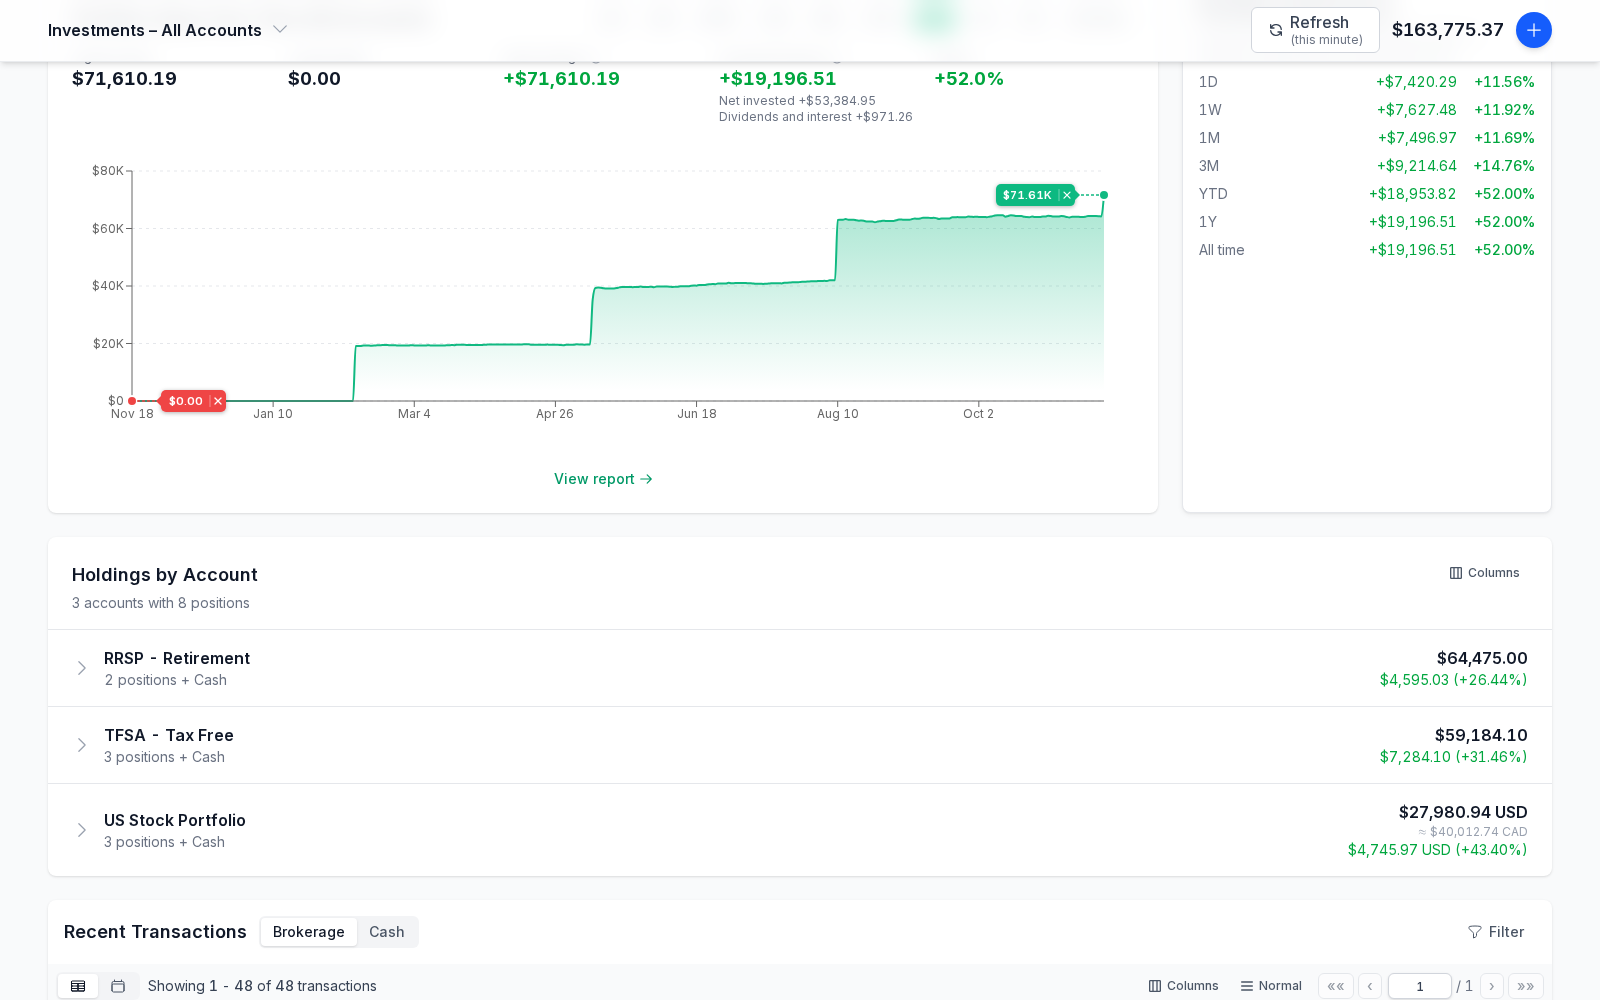
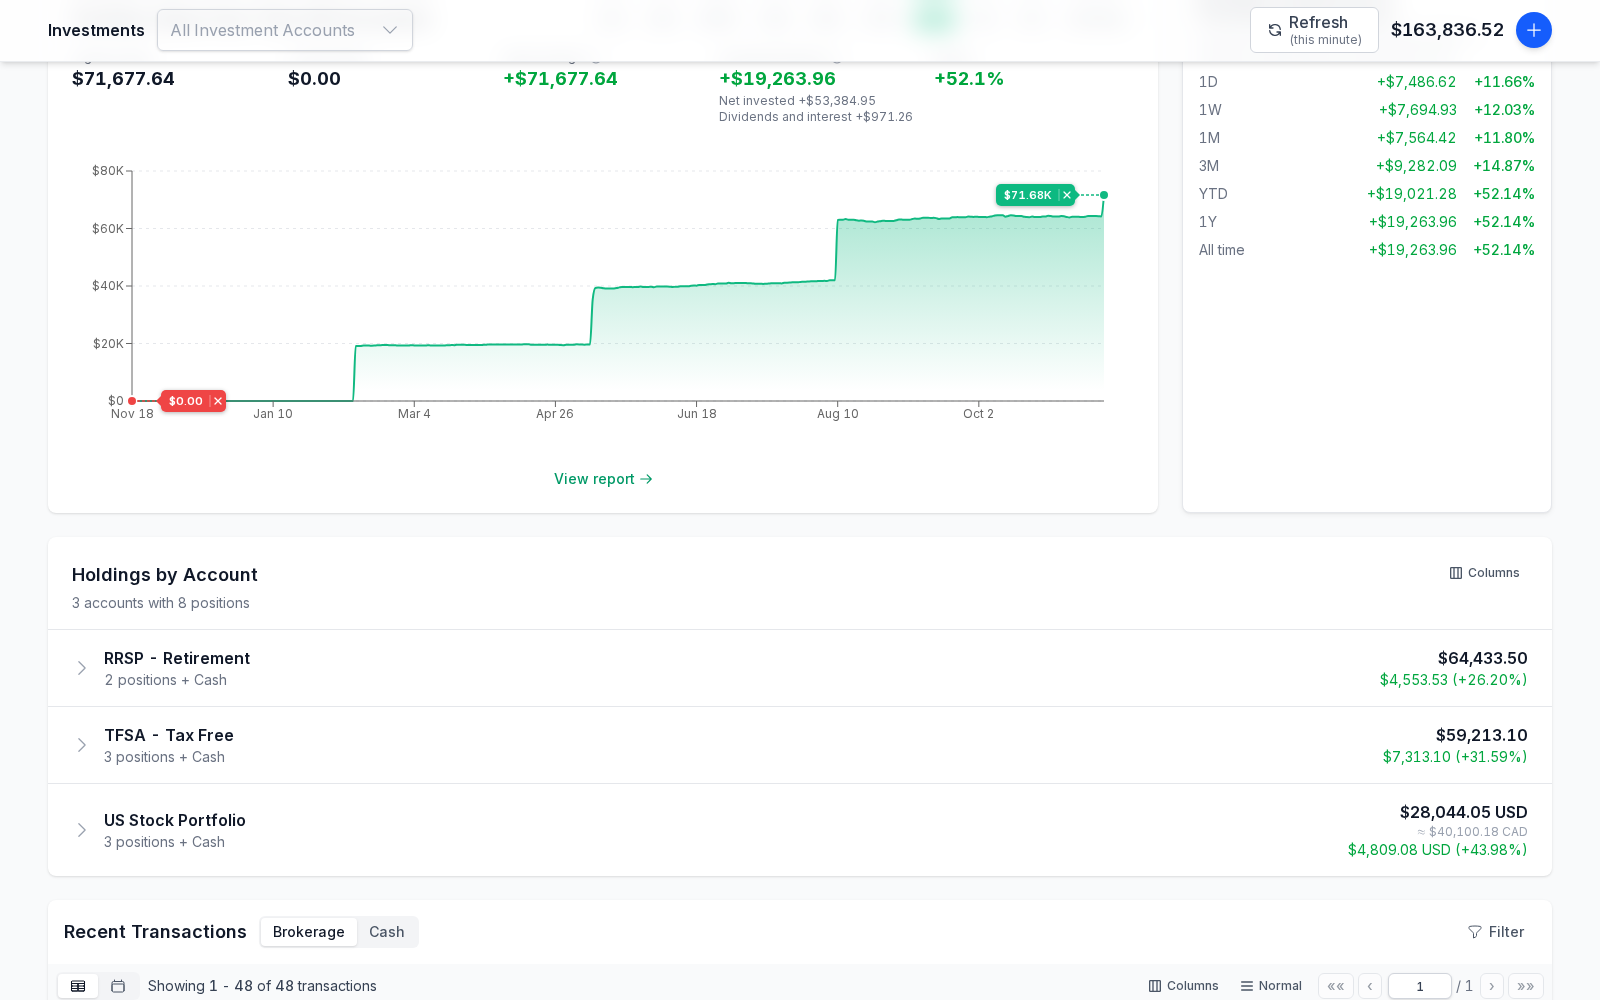
feat(investments): pick one or more accounts from the pinned bar
The desktop's pinned Investments bar carried a single-pick caret (one
account, or all of them), while every other account picker on the page is
a multi-select. The bar now shows the section name and the header's own
MultiSelect, one element rendered in both places, so the bar narrows the
page to any set of accounts the header can. The phone header's collapsed
title keeps its caret.

The user guide describes the picker and its two pictures are retaken.

Refs #2277

diff --git a/frontend/src/app/investments/page.tsx b/frontend/src/app/investments/page.tsx
@@ -50,7 +50,6 @@ import { useHasMobileTabBar } from '@/hooks/useIsMobile';
 import { useScrolledPast } from '@/hooks/useScrolledPast';
 import { FloatingPageBar } from '@/components/layout/FloatingPageBar';
 import { FloatingAddButton } from '@/components/layout/FloatingAddButton';
-import { EntitySwitcher } from '@/components/ui/EntitySwitcher';
 import { PartialTotal } from '@/components/ui/PartialTotal';
 import { isPortfolioPartial, portfolioPartialTotal } from '@/lib/net-worth-completeness';
 import { portfolioHeadline } from '@/lib/portfolio-headline';
@@ -88,12 +87,11 @@ function InvestmentsContent() {
   const t = useTranslations('investments');
   const tc = useTranslations('common');
   const ta = useTranslations('accountDetail');
-  const tl = useTranslations('layout');
   const { formatCurrency } = useNumberFormat();
   // On a desktop, as soon as the account picker (the account names) has
-  // scrolled behind the header, a bar carrying the same accounts label, an
-  // account caret and Refresh pins to the top of the page. Below `xl` the app
-  // header's collapsed title carries them instead.
+  // scrolled behind the header, a bar carrying the same picker and Refresh
+  // pins to the top of the page. Below `xl` the app header's collapsed title
+  // carries the accounts instead.
   const hasMobileTabBar = useHasMobileTabBar();
   const [accountPickerRef, accountPickerScrolledAway] = useScrolledPast<HTMLDivElement>(!hasMobileTabBar);
   // The cash register below is the shared transactions list, so its pager
@@ -335,23 +333,27 @@ function InvestmentsContent() {
     />
   );
 
+  // One or more accounts, or all of them: the header's picker, and the same
+  // picker in the desktop's pinned bar, so both choose the same way.
+  const accountPicker = (
+    <MultiSelect
+      value={data.selectedAccountIds}
+      onChange={data.handleAccountChange}
+      placeholder={t('page.allInvestmentAccounts')}
+      showSearch={false}
+      options={data.selectableAccounts.map((account: Account) => ({
+        value: account.id,
+        label: getAccountDisplayName(account),
+      }))}
+    />
+  );
+
   // The header's account picker and price refresh. The picker is what the
   // desktop's pinned bar watches: once its account names have scrolled behind
   // the app header, the bar takes over.
   const accountControls = (
     <div ref={accountPickerRef} className="flex items-stretch gap-3 w-full sm:w-auto">
-      <div className="flex-1 sm:flex-none sm:w-64 min-w-0">
-        <MultiSelect
-          value={data.selectedAccountIds}
-          onChange={data.handleAccountChange}
-          placeholder={t('page.allInvestmentAccounts')}
-          showSearch={false}
-          options={data.selectableAccounts.map((account: Account) => ({
-            value: account.id,
-            label: getAccountDisplayName(account),
-          }))}
-        />
-      </div>
+      <div className="flex-1 sm:flex-none sm:w-64 min-w-0">{accountPicker}</div>
       {refreshButton}
     </div>
   );
@@ -379,19 +381,13 @@ function InvestmentsContent() {
           {!hasMobileTabBar && (
             <FloatingPageBar visible={accountPickerScrolledAway} testId="investments-floating-bar">
               <div className="flex items-center justify-between gap-3 py-2">
-                {/* The label the Portfolio Summary carries in brackets, and
-                    the same caret as the mobile header's: one account, or
-                    all of them, favourites first. */}
-                <div className="flex min-w-0 items-center gap-1">
-                  <p className="min-w-0 truncate text-base font-semibold text-gray-900 dark:text-gray-100">
-                    {tl('pageHeader.collapsedTitleWithContext', {
-                      title: t('page.title'),
-                      context: accountFilterLabel,
-                    })}
+                {/* The section name and the header's own account picker, so
+                    the bar picks one or more accounts as the page does. */}
+                <div className="flex min-w-0 items-center gap-3">
+                  <p className="flex-shrink-0 text-base font-semibold text-gray-900 dark:text-gray-100">
+                    {t('page.title')}
                   </p>
-                  <span className="inline-flex flex-shrink-0 items-center">
-                    <EntitySwitcher {...collapsedSwitcher} />
-                  </span>
+                  <div className="w-64 min-w-0">{accountPicker}</div>
                 </div>
                 <div className="flex flex-shrink-0 items-center gap-3">
                   {refreshButton}

diff --git a/frontend/src/app/investments/page.test.tsx b/frontend/src/app/investments/page.test.tsx
@@ -243,11 +243,22 @@ vi.mock('@/components/ui/UnsavedChangesDialog', () => ({
 }));
 
 vi.mock('@/components/ui/MultiSelect', () => ({
-  MultiSelect: ({ options, placeholder, onChange }: any) => (
+  // An option toggles in and out of the selection, as the real one does.
+  MultiSelect: ({ options, placeholder, value = [], onChange }: any) => (
     <div data-testid="multi-select">
       <span>{placeholder}</span>
       {options?.map((opt: any) => (
-        <button key={opt.value} data-testid={`option-${opt.value}`} onClick={() => onChange([opt.value])}>
+        <button
+          key={opt.value}
+          data-testid={`option-${opt.value}`}
+          onClick={() =>
+            onChange(
+              value.includes(opt.value)
+                ? value.filter((v: string) => v !== opt.value)
+                : [...value, opt.value],
+            )
+          }
+        >
           {opt.label}
         </button>
       ))}
@@ -1729,43 +1740,54 @@ describe('InvestmentsPage', () => {
       vi.unstubAllGlobals();
     });
 
-    it('pins the accounts label, an account caret and refresh to the top once the picker scrolls away', async () => {
+    it('pins the section name, the account picker and refresh to the top once the picker scrolls away', async () => {
       await renderPage();
       const floating = screen.getByTestId('investments-floating-bar');
       expect(floating).toHaveAttribute('aria-hidden', 'true');
 
       headerScrolled?.(true);
       expect(floating).toHaveAttribute('aria-hidden', 'false');
-      expect(floating).toHaveTextContent('Investments – All Accounts');
-      // A caret rather than a second multi-select, beside Refresh.
-      expect(within(floating).queryByTestId('multi-select')).not.toBeInTheDocument();
+      expect(floating).toHaveTextContent('Investments');
+      // The header's own multi-select, not a single-pick caret, beside Refresh.
+      expect(
+        within(floating).queryByRole('button', { name: 'Switch to another account' }),
+      ).not.toBeInTheDocument();
+      expect(within(floating).getByTestId('multi-select')).toHaveTextContent(
+        'All Investment Accounts',
+      );
       expect(within(floating).getByRole('button', { name: 'Refresh' })).toBeInTheDocument();
-
-      await act(async () => {
-        fireEvent.click(within(floating).getByRole('button', { name: 'Switch to another account' }));
-      });
-      // "All" is the selection, so the menu offers the accounts.
-      expect(screen.queryByRole('menuitem', { name: /All Investment Accounts/ })).not.toBeInTheDocument();
-      await act(async () => {
-        fireEvent.click(screen.getByRole('menuitem', { name: /TFSA/ }));
-      });
-      await waitFor(() => {
-        expect(floating).toHaveTextContent('Investments – TFSA');
-      });
-
-      // And back to every account from the same caret.
-      await act(async () => {
-        fireEvent.click(within(floating).getByRole('button', { name: 'Switch to another account' }));
-      });
-      await act(async () => {
-        fireEvent.click(screen.getByRole('menuitem', { name: /All Investment Accounts/ }));
-      });
-      await waitFor(() => {
-        expect(floating).toHaveTextContent('Investments – All Accounts');
-      });
 
       headerScrolled?.(false);
       expect(floating).toHaveAttribute('aria-hidden', 'true');
+    });
+
+    it('narrows the page to more than one account from the pinned picker', async () => {
+      await renderPage();
+      headerScrolled?.(true);
+      const floating = screen.getByTestId('investments-floating-bar');
+
+      await act(async () => {
+        fireEvent.click(within(floating).getByTestId('option-brok-1'));
+      });
+      await act(async () => {
+        fireEvent.click(within(floating).getByTestId('option-brok-2'));
+      });
+      await waitFor(() => {
+        expect(mockUsePortfolioPeriodResults).toHaveBeenLastCalledWith(
+          expect.objectContaining({ accountIds: 'brok-1,brok-2' }),
+        );
+      });
+
+      // And back out of one, from the same picker.
+      await act(async () => {
+        fireEvent.click(within(floating).getByTestId('option-brok-1'));
+      });
+      await waitFor(() => {
+        expect(mockUsePortfolioPeriodResults).toHaveBeenLastCalledWith(
+          expect.objectContaining({ accountIds: 'brok-2' }),
+        );
+      });
+      expect(floating).toHaveAttribute('aria-hidden', 'false');
     });
 
     it('shows the Total Portfolio Value and a + that asks investment or cash', async () => {

diff --git a/website/docs/investments.html b/website/docs/investments.html
@@ -29,7 +29,7 @@
 </blockquote>
 <h2 id="portfolio-view">Portfolio View<a class="hlink" href="#portfolio-view" aria-label="Link to this section">#</a></h2>
 <p>On a phone or tablet, once you scroll the page title away, the header bar reads <strong>Investments</strong> followed by the accounts in view, the same label the <strong>Portfolio Summary</strong> shows in brackets (for example <strong>Investments – RRSP, TFSA</strong> or <strong>Investments – All Accounts</strong>). The arrow beside it narrows the page to one account, with your favourites first, or goes back to <strong>All Investment Accounts</strong>. If the line does not fit, the header shows just the accounts.</p>
-<p>On a desktop, as soon as the account picker scrolls out of view, a bar pins across the top of the page with the same <strong>Investments – <em>accounts</em></strong> label, and slides away when you scroll back up. The arrow beside the label switches to one account or back to all of them. On the right are the <strong>Refresh</strong> button, the <strong>Total Portfolio Value</strong> (marked when it is a partial figure, as on the Portfolio Summary), and a <strong>+</strong> that starts an investment or a cash transaction.</p>
+<p>On a desktop, as soon as the account picker scrolls out of view, a bar pins across the top of the page with <strong>Investments</strong> and the same account picker, and slides away when you scroll back up. Tick one or more accounts in it, or clear it to go back to <strong>All Investment Accounts</strong>, without scrolling up. On the right are the <strong>Refresh</strong> button, the <strong>Total Portfolio Value</strong> (marked when it is a partial figure, as on the Portfolio Summary), and a <strong>+</strong> that starts an investment or a cash transaction.</p>
 <figure><img src="/docs/images/investments-floating-bar.png" alt="The accounts bar pinned to the top of the Investments page while scrolled down" width="1600" height="1000" loading="lazy" decoding="async" class="shot-dark"/><img src="/docs/images/investments-floating-bar.light.png" alt="The accounts bar pinned to the top of the Investments page while scrolled down" width="1600" height="1000" loading="lazy" decoding="async" class="shot-light"/><figcaption>The accounts bar pinned to the top of the Investments page while scrolled down</figcaption></figure>
 <h3 id="portfolio-summary">Portfolio Summary<a class="hlink" href="#portfolio-summary" aria-label="Link to this section">#</a></h3>
 <p>The <strong>Portfolio Summary</strong> card shows the <strong>Total Portfolio Value</strong> (holdings plus cash), then two groups of figures. Hover over any figure for an explanation of how it is worked out.</p>

diff --git a/website/docs/investments.md b/website/docs/investments.md
@@ -46,7 +46,7 @@ When you create an investment account, both components are created automatically
 
 On a phone or tablet, once you scroll the page title away, the header bar reads **Investments** followed by the accounts in view, the same label the **Portfolio Summary** shows in brackets (for example **Investments – RRSP, TFSA** or **Investments – All Accounts**). The arrow beside it narrows the page to one account, with your favourites first, or goes back to **All Investment Accounts**. If the line does not fit, the header shows just the accounts.
 
-On a desktop, as soon as the account picker scrolls out of view, a bar pins across the top of the page with the same **Investments – *accounts*** label, and slides away when you scroll back up. The arrow beside the label switches to one account or back to all of them. On the right are the **Refresh** button, the **Total Portfolio Value** (marked when it is a partial figure, as on the Portfolio Summary), and a **+** that starts an investment or a cash transaction.
+On a desktop, as soon as the account picker scrolls out of view, a bar pins across the top of the page with **Investments** and the same account picker, and slides away when you scroll back up. Tick one or more accounts in it, or clear it to go back to **All Investment Accounts**, without scrolling up. On the right are the **Refresh** button, the **Total Portfolio Value** (marked when it is a partial figure, as on the Portfolio Summary), and a **+** that starts an investment or a cash transaction.
 
 ![The accounts bar pinned to the top of the Investments page while scrolled down](images/investments-floating-bar.png)
 
